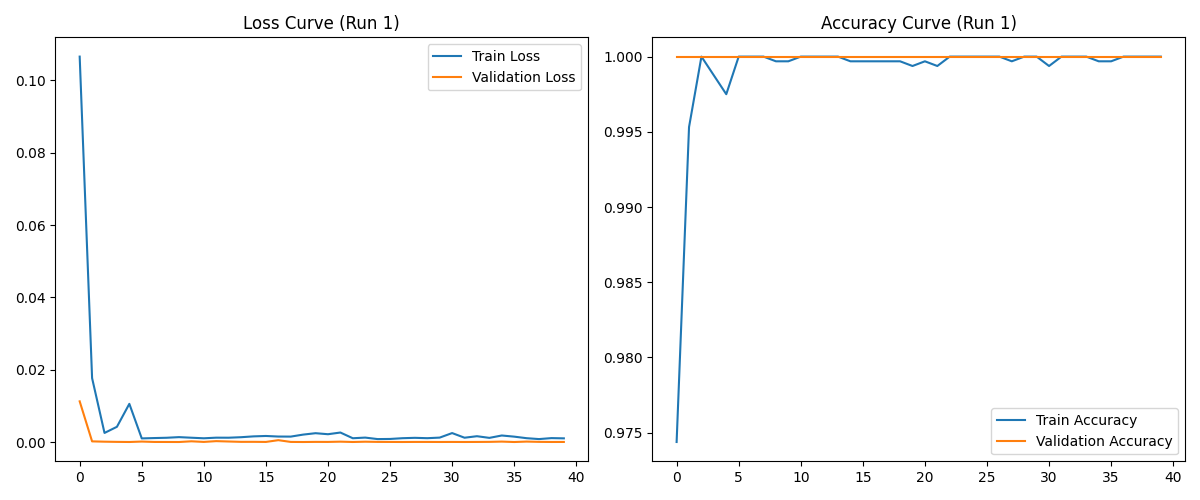
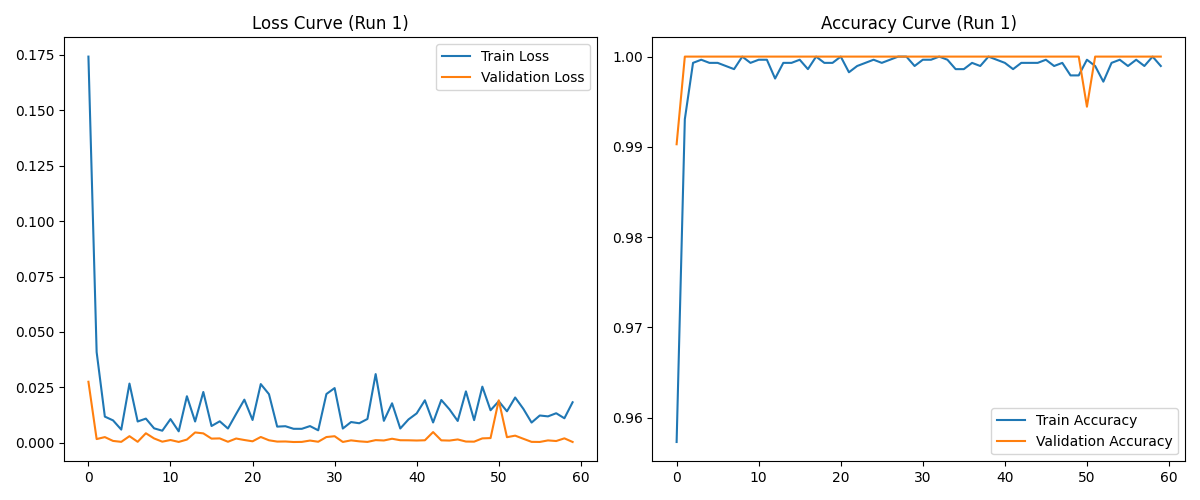
update

diff --git a/Self-Supervised-Learning/main.py b/Self-Supervised-Learning/main.py
@@ -10,7 +10,7 @@ from sklearn.metrics import accuracy_score, f1_score
 
 import torch
 import torch.nn as nn
-from torch.utils.data import DataLoader, TensorDataset
+from torch.utils.data import DataLoader, TensorDataset, Dataset
 import matplotlib.pyplot as plt
 
 import my_func
@@ -26,7 +26,7 @@ ARI_TH = 0.24
 CONF_THRESHOLD = 50.0
 
 BATCH_SIZE = 32
-NUM_EPOCHS = 40
+NUM_EPOCHS = 60
 LR = 1e-3
 
 
@@ -86,6 +86,53 @@ def calculate_confidence(cv, ari, cv_th, ari_th):
 
     conf = np.clip(conf, 50, 100)
     return label, conf
+
+
+# ============================================================
+# 数据增强 Dataset
+# ============================================================
+class AugmentedDataset(Dataset):
+    def __init__(self, X, y, augment=False):
+        self.X = X
+        self.y = y
+        self.augment = augment
+
+    def __len__(self):
+        return len(self.X)
+
+    def __getitem__(self, idx):
+        # 复制数据防止修改原数组
+        sig = self.X[idx].copy()
+        target = self.y[idx]
+
+        if self.augment:
+            # 1. 随机幅度缩放 (Scaling)
+            # 模拟信号强度的变化
+            if np.random.rand() < 0.5:
+                scale = np.random.uniform(0.8, 1.2)
+                sig = sig * scale
+            
+            # 2. 随机高斯噪声 (Jittering)
+            # 模拟传感器噪声
+            if np.random.rand() < 0.5:
+                # 假设数据已经过标准化 (mean=0, std=1)，添加 0.05 std 的噪声
+                noise = np.random.normal(0, 0.05, sig.shape)
+                sig = sig + noise
+
+            # 3. 随机平移 (Time Shift/Roll)
+            # 模拟截取窗口的偏移
+            if np.random.rand() < 0.5:
+                # 最大移动 ±100 个采样点 (FS=400, 0.25s)
+                shift = np.random.randint(-100, 100)
+                sig = np.roll(sig, shift)
+                # 注意：np.roll 是循环的，但对于心电这种周期或者长信号通常影响不大
+                # 如果是边界敏感的，可以使用 pad + crop 方式，简单起见这里用 roll
+
+        # 转为 Tensor: (1, Length)
+        sig_tensor = torch.from_numpy(sig).float().unsqueeze(0)
+        target_tensor = torch.tensor(target).float()
+        
+        return sig_tensor, target_tensor
 
 
 # ============================================================
@@ -170,7 +217,6 @@ if __name__ == "__main__":
 
     print(f"最终选定高质量伪标签: AFib: {len(X_afib)} (Min Conf: {confidences[final_afib_idx[-1]]:.2f}), "
           f"Normal: {len(X_normal)} (Min Conf: {confidences[final_normal_idx[-1]]:.2f})")
-
     X_train = np.concatenate([X_afib, X_normal])
     y_train = np.concatenate([
         np.ones(len(X_afib)),
@@ -195,11 +241,10 @@ if __name__ == "__main__":
     # ========================================================
     device = torch.device("cuda" if torch.cuda.is_available() else "cpu")
 
-    def make_loader(X, y, shuffle):
-        X = torch.from_numpy(X).float().unsqueeze(1)
-        y = torch.from_numpy(y).float()
+    def make_loader(X, y, shuffle, augment=False):
+        dataset = AugmentedDataset(X, y, augment=augment)
         return DataLoader(
-            TensorDataset(X, y),
+            dataset,
             batch_size=BATCH_SIZE,
             shuffle=shuffle
         )
@@ -216,8 +261,8 @@ if __name__ == "__main__":
         )
         print(f"   Train: {X_tr.shape}, Val: {X_val.shape}")
 
-        train_loader = make_loader(X_tr, y_tr, shuffle=True)
-        val_loader = make_loader(X_val, y_val, False)
+        train_loader = make_loader(X_tr, y_tr, shuffle=True, augment=True)
+        val_loader = make_loader(X_val, y_val, False, augment=False)
         
         torch.manual_seed(seed)
         if torch.cuda.is_available():
@@ -247,7 +292,7 @@ if __name__ == "__main__":
     # ========================================================
     # 多次运行的主循环
     # ========================================================
-    NUM_RUNS = 5
+    NUM_RUNS = 1
     
     # Metrics Storage
     all_rule_accs = []      # Pure Rule-based (CV/ARI) Accuracy on Test Set
@@ -375,7 +420,7 @@ if __name__ == "__main__":
 
         model_final.load_state_dict(torch.load(path_final, map_location=device, weights_only=True))
         
-        test_loader = make_loader(X_test, y_test, False)
+        test_loader = make_loader(X_test, y_test, False, augment=False)
 
         preds, gts = [], []
         with torch.no_grad():
